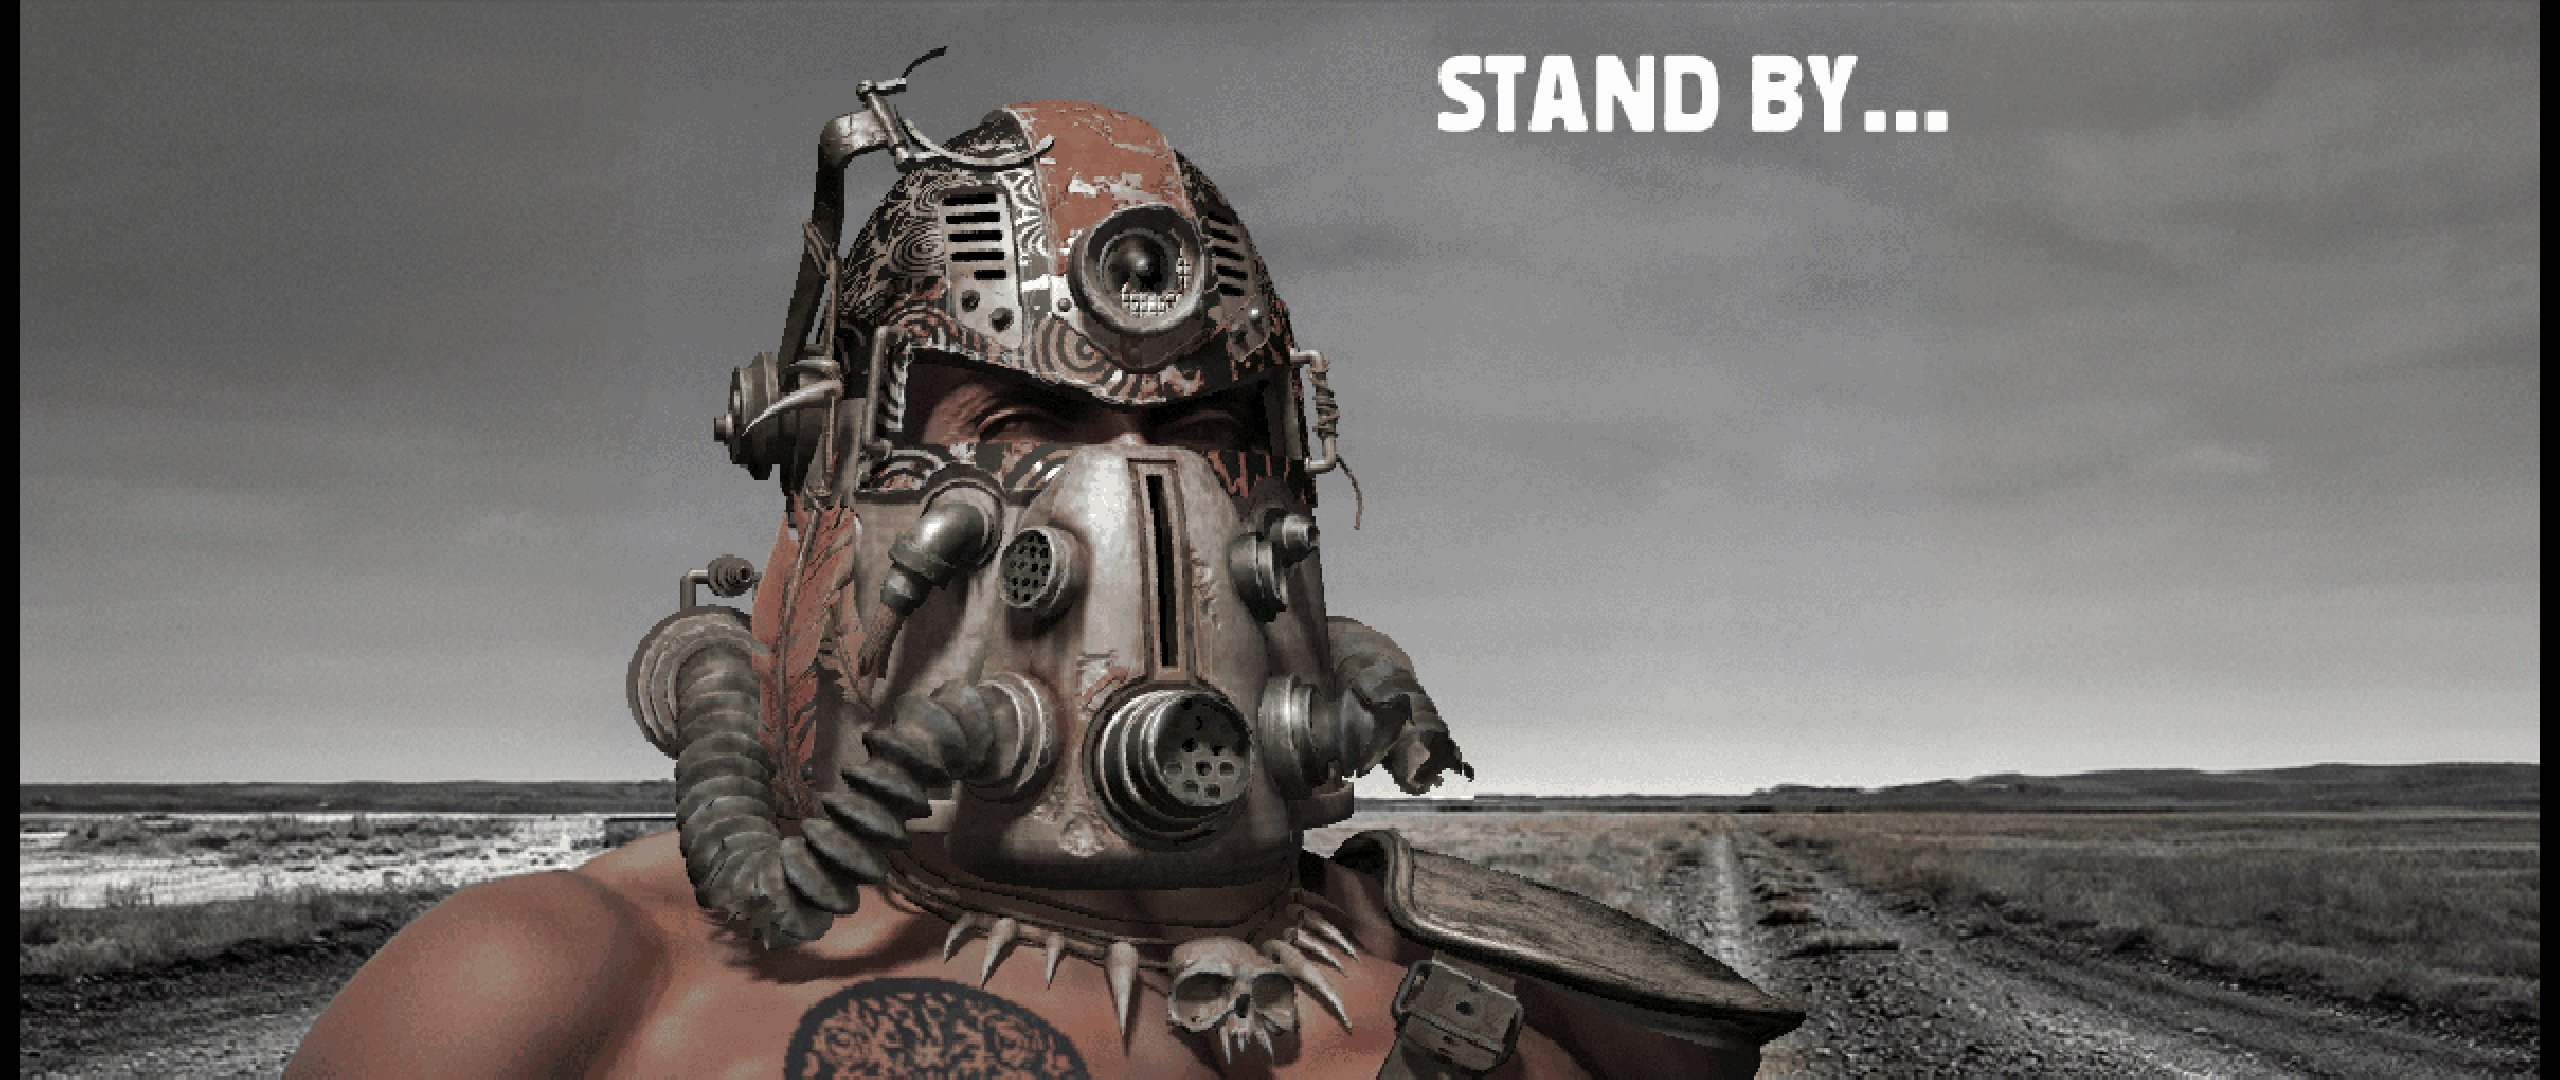
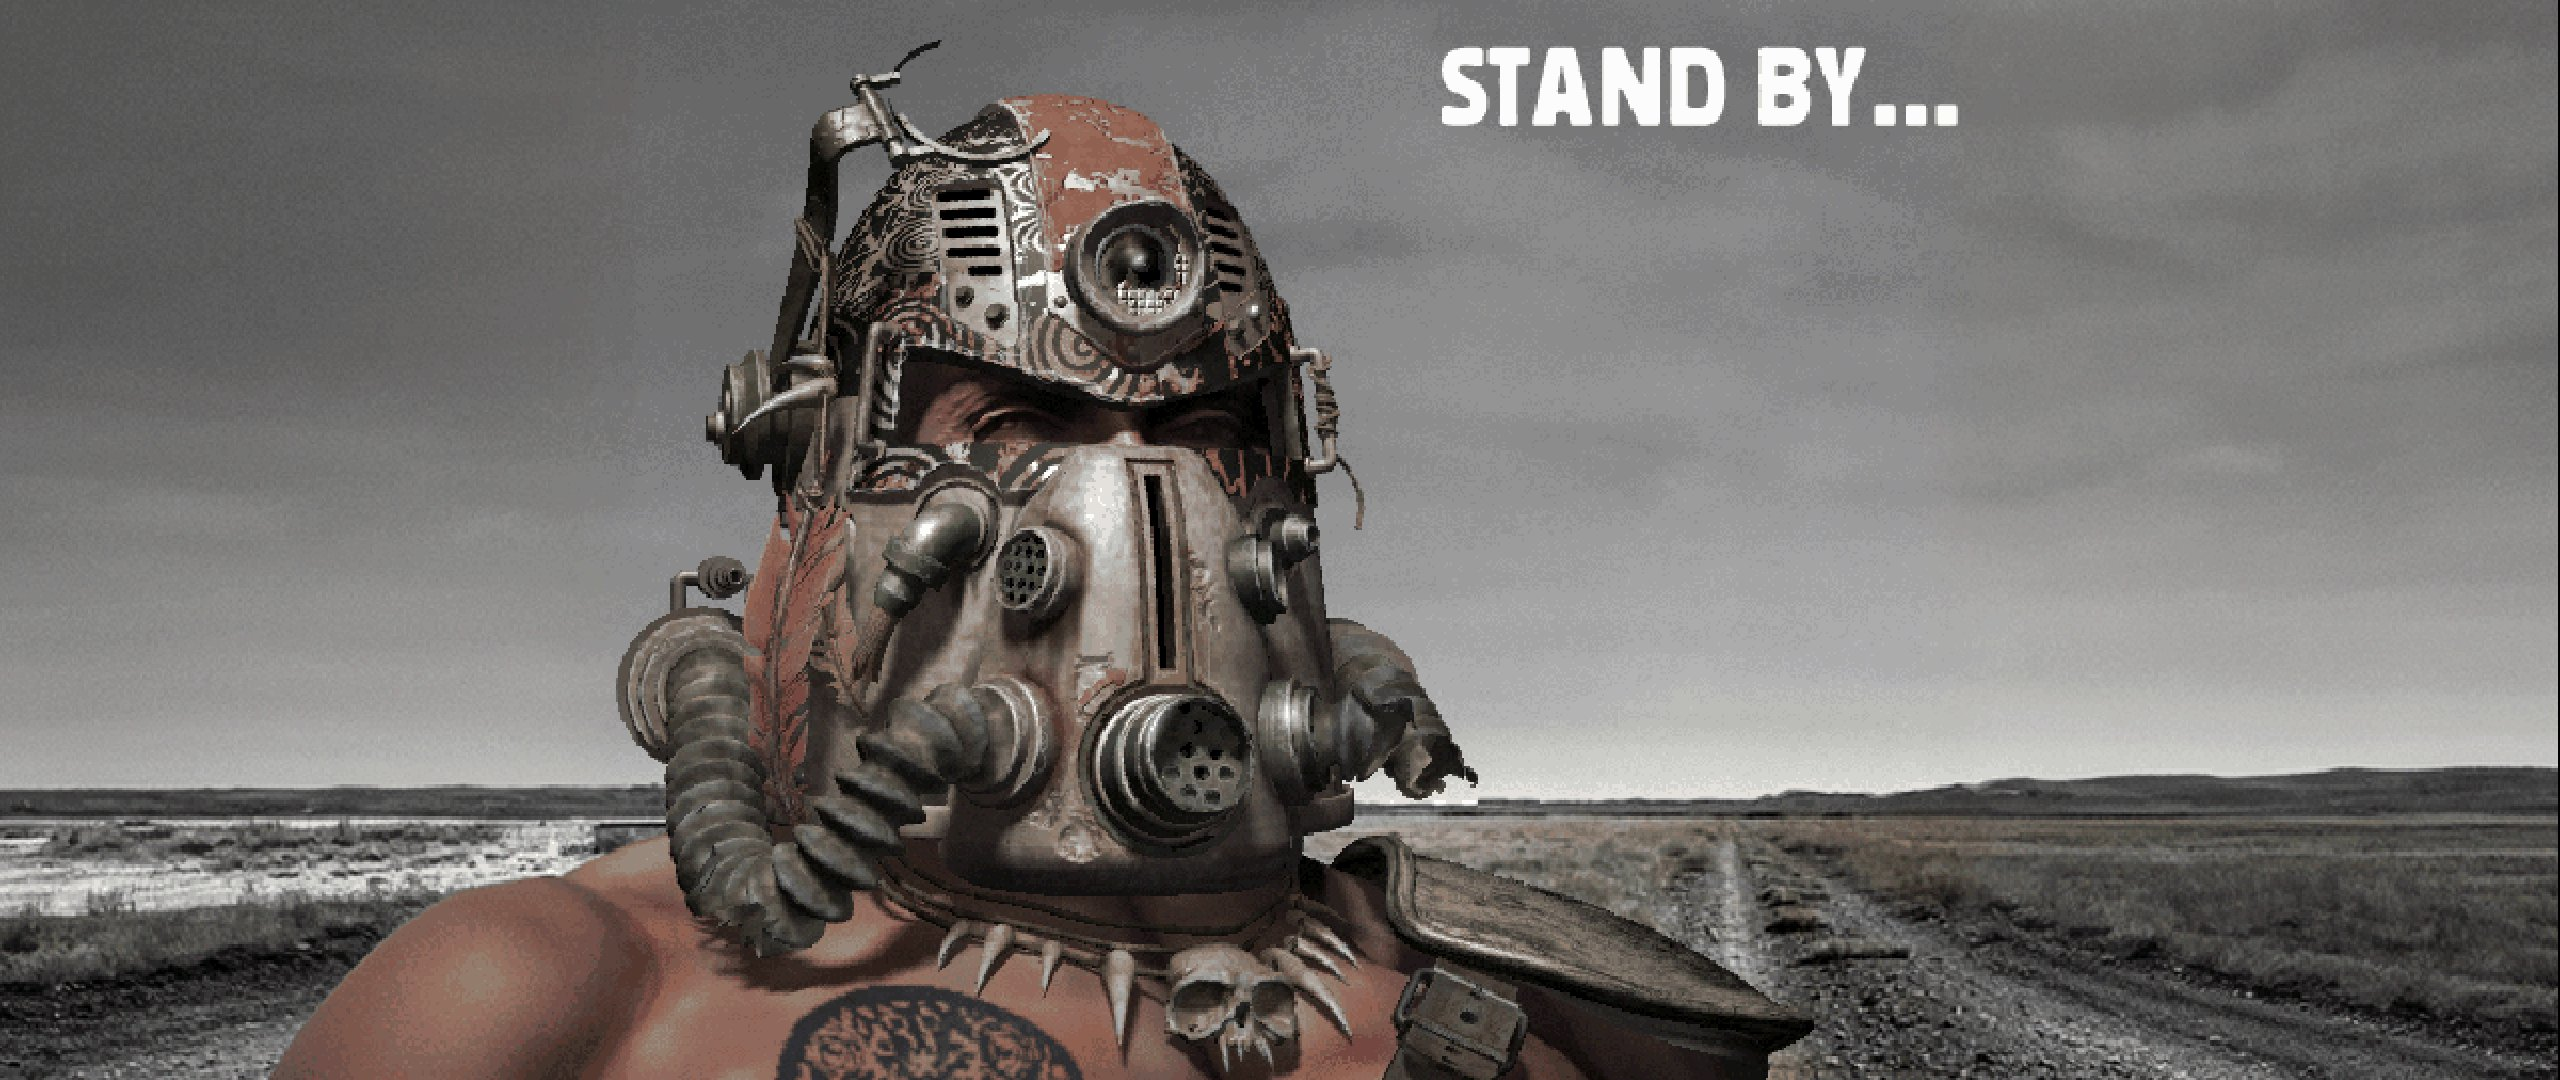
[Task 118] Cover screen with owner's widescreen art

Changed region(s): [[0.0, 0.0, 1.0, 1.0], [0.5625, 0.0306, 0.7812, 0.1222]]

diff --git a/ce/src/mainmenu.cc b/ce/src/mainmenu.cc
@@ -195,12 +195,15 @@ static void mainMenuComputeAspectFit(int srcWidth, int srcHeight, int& outX, int
     outWidth = dstWidth;
     outHeight = dstHeight;
 
-    if (mainMenuHasRgbaBackground
-        && static_cast<int64_t>(srcWidth) * dstHeight > static_cast<int64_t>(srcHeight) * dstWidth) {
-        // Wide menu art fills the screen vertically. Cropping the same amount
-        // from each side keeps its controls aligned with their painted places.
-        outWidth = static_cast<int>(static_cast<int64_t>(dstHeight) * srcWidth / srcHeight);
-        outHeight = dstHeight;
+    if (mainMenuHasRgbaBackground) {
+        // Cover the screen with the owner's art and crop the excess equally.
+        if (static_cast<int64_t>(dstWidth) * srcHeight >= static_cast<int64_t>(dstHeight) * srcWidth) {
+            outWidth = dstWidth;
+            outHeight = static_cast<int>((static_cast<int64_t>(dstWidth) * srcHeight + srcWidth - 1) / srcWidth);
+        } else {
+            outWidth = static_cast<int>((static_cast<int64_t>(dstHeight) * srcWidth + srcHeight - 1) / srcHeight);
+            outHeight = dstHeight;
+        }
     } else if (static_cast<int64_t>(dstHeight) * srcWidth > static_cast<int64_t>(dstWidth) * srcHeight) {
         outHeight = static_cast<int>(static_cast<int64_t>(dstWidth) * srcHeight / srcWidth);
     } else {
@@ -299,10 +302,18 @@ static bool mainMenuLoadArt()
     unsigned int backgroundWidth = 0;
     unsigned int backgroundHeight = 0;
     unsigned error = lodepng::decode(mainMenuRgbaBackground, backgroundWidth, backgroundHeight,
-        "user-assets/fullscreen-20261028/wallpapers-selected/hires/menu/hr_mainmenu.png");
+        "user-assets/fullscreen-20261028/wallpapers-selected/hires/menu/art__intrface__hr_mainmenu__d0_f0_21-9.png");
     if (error != 0) {
         error = lodepng::decode(mainMenuRgbaBackground, backgroundWidth, backgroundHeight,
-            "game/user-assets/fullscreen-20261028/wallpapers-selected/hires/menu/hr_mainmenu.png");
+            "game/user-assets/fullscreen-20261028/wallpapers-selected/hires/menu/art__intrface__hr_mainmenu__d0_f0_21-9.png");
+    }
+    if (error != 0) {
+        error = lodepng::decode(mainMenuRgbaBackground, backgroundWidth, backgroundHeight,
+            "user-assets/fullscreen-20261028/wallpapers-selected/hires/menu/hr_mainmenu.png");
+        if (error != 0) {
+            error = lodepng::decode(mainMenuRgbaBackground, backgroundWidth, backgroundHeight,
+                "game/user-assets/fullscreen-20261028/wallpapers-selected/hires/menu/hr_mainmenu.png");
+        }
     }
     if (error == 0 && backgroundWidth > 0 && backgroundHeight > 0
         && backgroundWidth <= SHRT_MAX && backgroundHeight <= SHRT_MAX) {

diff --git a/ce/src/game.cc b/ce/src/game.cc
@@ -1612,12 +1612,16 @@ static void showSplash()
         if (size == 2) {
             scaledWidth = screenWidth;
             scaledHeight = screenHeight;
-        } else if (size == 1
-            && static_cast<int64_t>(width) * screenHeight > static_cast<int64_t>(height) * screenWidth) {
-            // Wide art fills the screen vertically; keep its proportions and
-            // crop equal strips from the left and right on narrower screens.
-            scaledHeight = screenHeight;
-            scaledWidth = static_cast<int>(static_cast<int64_t>(screenHeight) * width / height);
+        } else if (size == 1) {
+            // Cover the screen while preserving the art's proportions. Round
+            // the scaled dimension up so integer rounding cannot leave a seam.
+            if (static_cast<int64_t>(screenWidth) * height >= static_cast<int64_t>(screenHeight) * width) {
+                scaledWidth = screenWidth;
+                scaledHeight = static_cast<int>((static_cast<int64_t>(screenWidth) * height + width - 1) / width);
+            } else {
+                scaledHeight = screenHeight;
+                scaledWidth = static_cast<int>((static_cast<int64_t>(screenHeight) * width + height - 1) / height);
+            }
         } else {
             if (screenHeight * width >= screenWidth * height) {
                 scaledWidth = screenWidth;

diff --git a/tasks/118-wide-fullscreen-art-in-game.md b/tasks/118-wide-fullscreen-art-in-game.md
@@ -94,3 +94,25 @@ Runtime loading and menu captures for both aspects are in this folder.
 
 No game assets were committed. The owner game and its `mod-cache` were not
 written.
+
+### 2026-10-29 gpt follow-up
+The owner's 1120x480 splash is 2.333:1; 2560x1080 is 2.370:1. Height-fit
+left about 20 physical pixels at each side. `splash_screen_size=1` now uses
+cover sizing, rounds up to avoid seams, and center-crops the excess. At 21:9
+the 1280x549 scaled source is cropped to 1280x540; at 16:9 the 1260x540
+source is cropped to 960x540.
+
+The menu loader now tries the existing owner wallpaper
+`user-assets/fullscreen-20261028/wallpapers-selected/hires/menu/art__intrface__hr_mainmenu__d0_f0_21-9.png`
+before the legacy image. It is 1820x768 and matches the game-folder asset by
+SHA256. The fallback remains the legacy wide image, then the stock menu art.
+No copy into `data/art/intrface` or any owner game file was needed. The test
+copy showed the exact wallpaper at 16:9 and 21:9; its capture identity and
+the final no-hook slot-1 EXE identity are in the matching JSON sidecars.
+
+Final Release build and CTest passed 18/18. Pixel comparison against fresh
+`origin/main` (`0ebfd1f5`) passed 16/16 with zero changed pixels; all test
+captures used `build/scene-cache`. The uninstrumented final EXE loaded slot 1
+to `KLADWTWN.SAV` at both aspects. The existing `game/user-assets` is where
+the owner asset lives; the updated executable reads it from the game working
+directory, so the owner will see it after updating the build and restarting.
